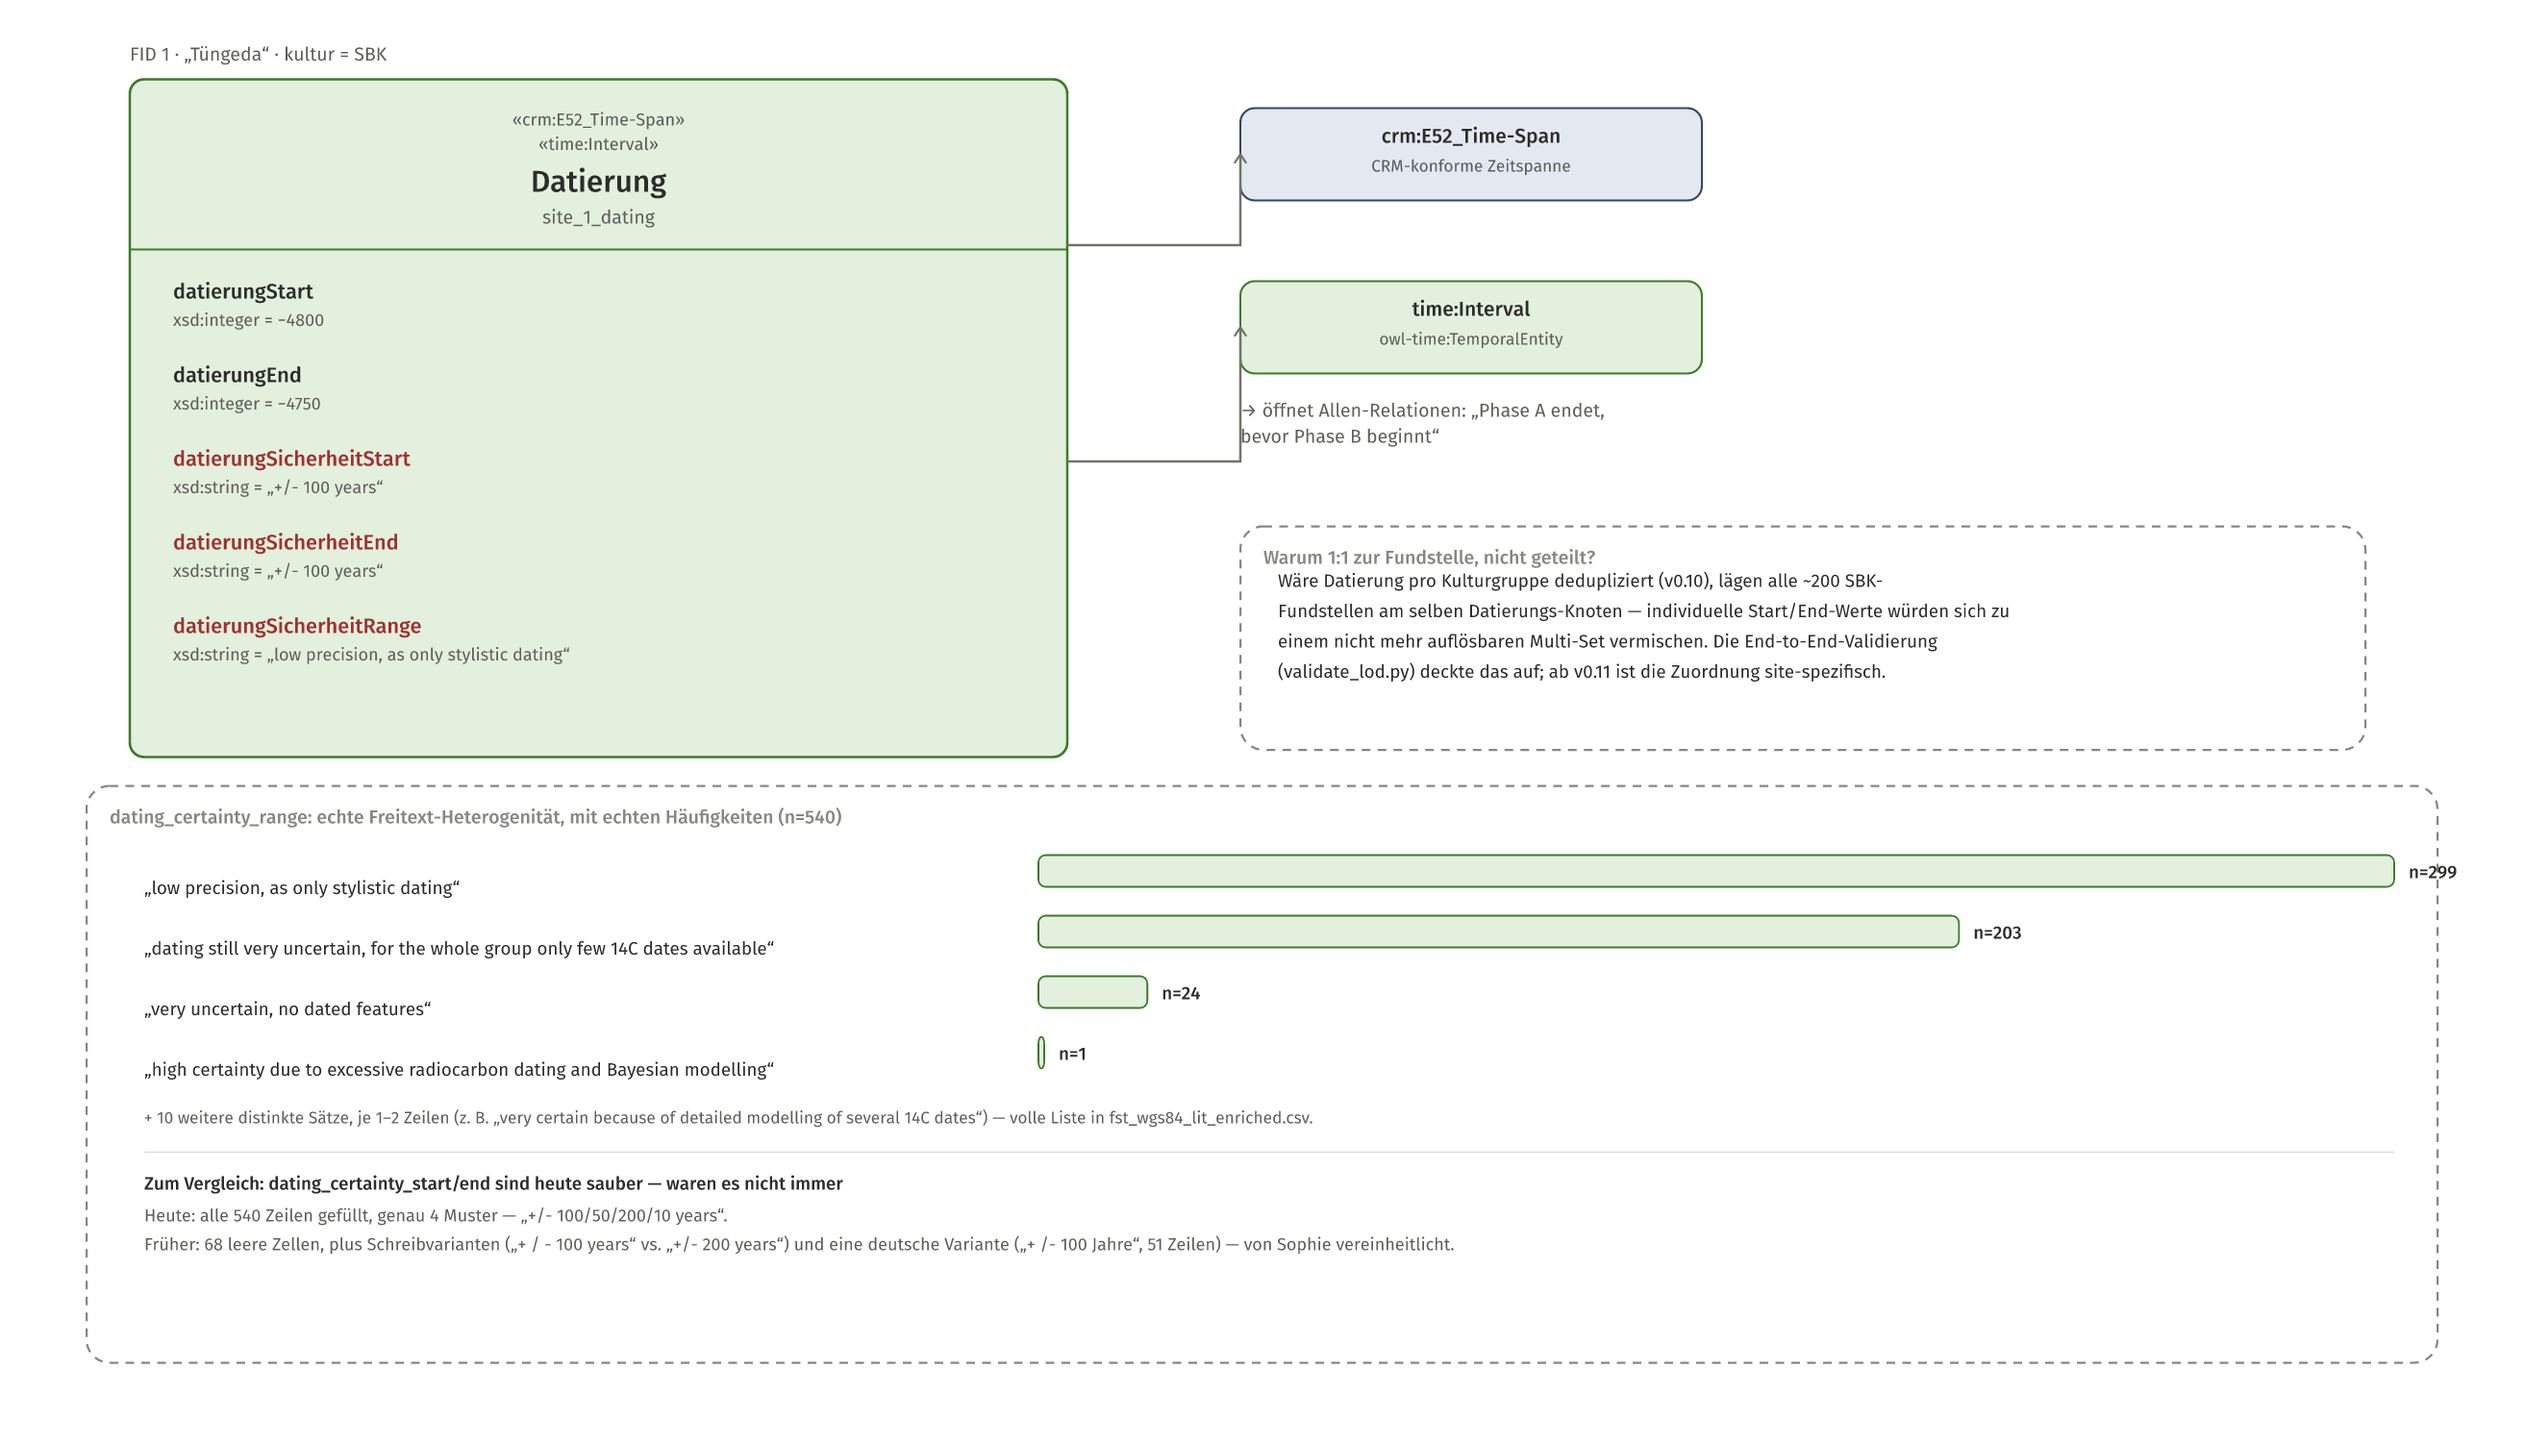
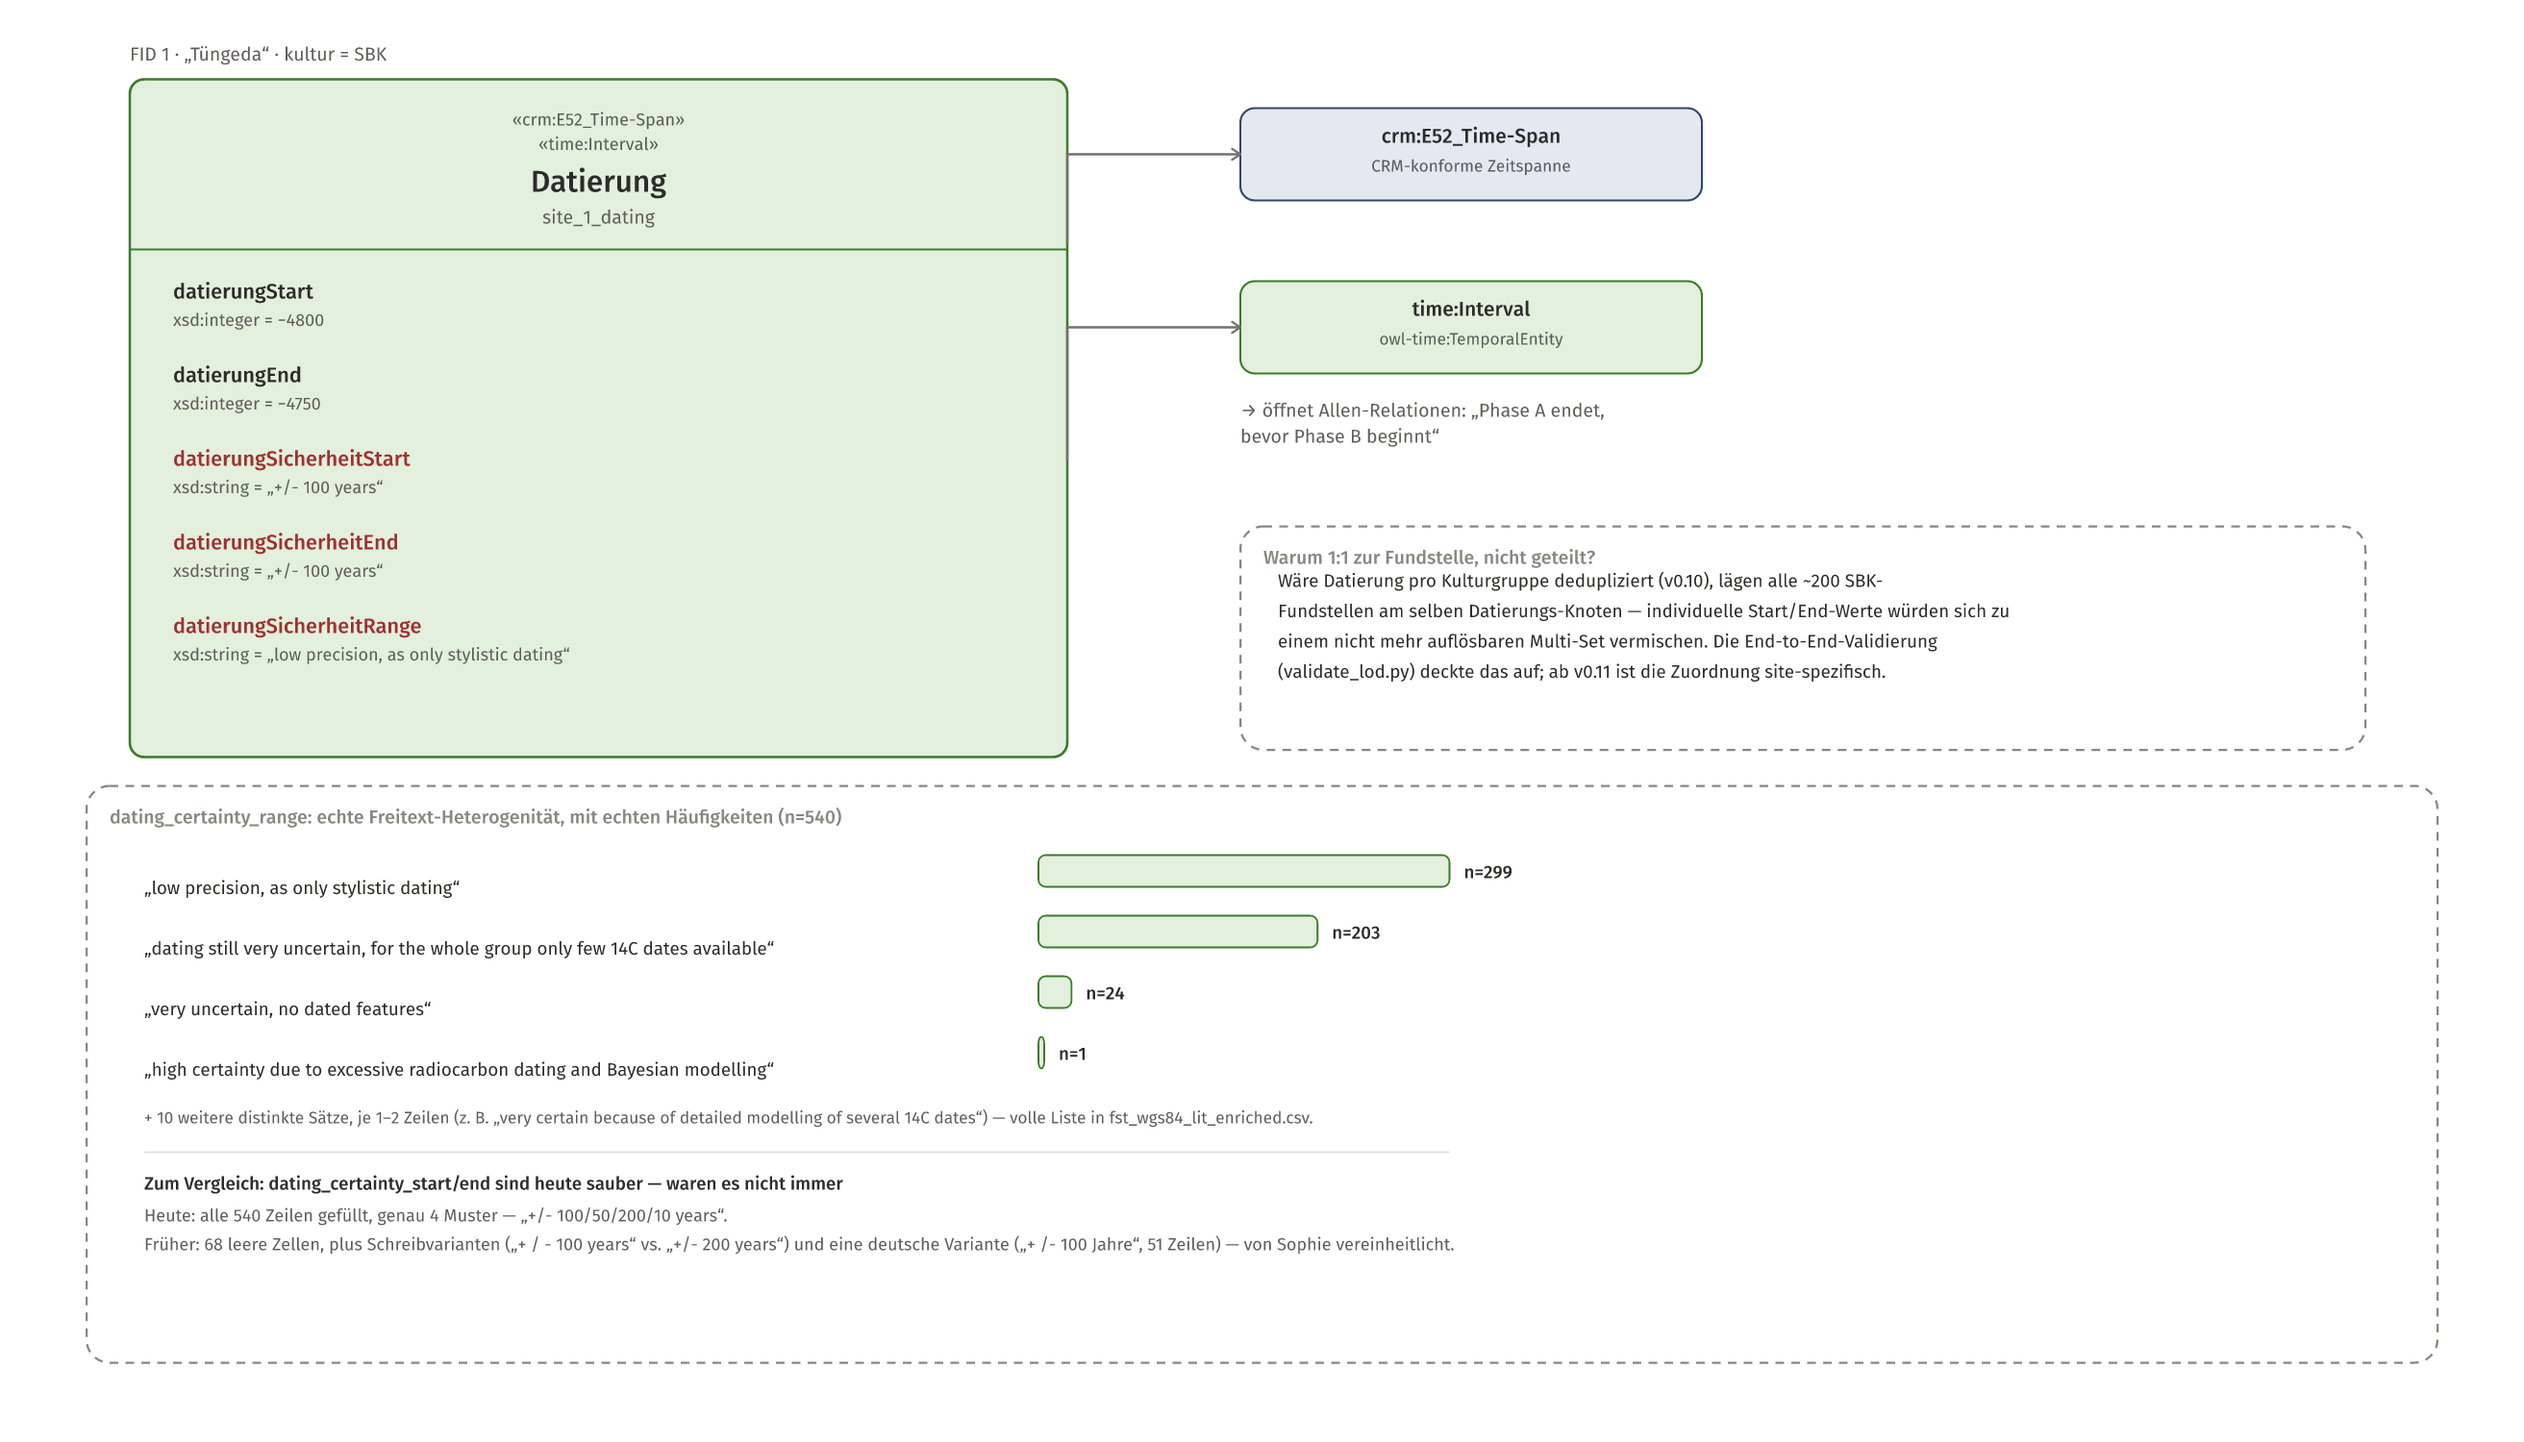
Fix bar-label overflow in figure 06
The dating_certainty_range bar chart's width was a fixed 1560px, never checked against how wide the longest count label ('n=299') actually renders -- it ran past the dashed container's right edge by about 22px. bar_w is now computed from the container's real edge minus the widest label's actual rendered width (vu.text_width), so this can't recur regardless of what the counts are.

Also re-confirms the horizontal-entry connector fix from an earlier patch, which a screenshot showed in its pre-fix state -- re-shipped for certainty, not a regression.

See PRIMER.md S40.

Changed region(s): [[0.4998, 0.5827, 0.9684, 0.6747], [0.4061, 0.6747, 0.4686, 0.7053]]

diff --git a/py/step_06_uncertainty_dating.py b/py/step_06_uncertainty_dating.py
@@ -32,6 +32,20 @@ Bilingual (revision) -- see step_00 docstring for the convention. FID 1
 string quoted below, are real CSV content and are never translated,
 paraphrased, or altered in either language.
 
+**Revision 2026-09-15g:** two issues Florian flagged from the same
+screenshot. (1) The two connectors into crm:E52_Time-Span/time:Interval
+already carry the ``bend="v"`` fix from S36 (horizontal entry, not
+vertical) -- re-confirmed here, since the screenshot showed the older
+vertical-entry behaviour, most likely from a not-yet-rebuilt or
+not-yet-repatched copy rather than a regression in this file. (2) The
+real bug: the widest bar (n=299) plus its count label could run past
+the dashed container's right edge -- ``bar_w`` was a fixed 1560px that
+was never checked against how wide "n=299" actually renders. Now
+computed from the container's real right edge minus the widest "n=NNN"
+label's actual rendered width (``vu.text_width``), so the longest bar
+can never push its label past the border, whatever the counts turn out
+to be.
+
 Writes: uncertainty-dating.de.svg/.png, uncertainty-dating.en.svg/.png
 Run standalone: ``python py/step_06_uncertainty_dating.py``
 """
@@ -118,11 +132,11 @@ def build(lang: str = "en") -> list[str]:
     parts.append(vu.svg_box(cx1, cy1, cw1, ch1, "crm:E52_Time-Span",
                              tt("CRM-konforme Zeitspanne", "CRM-conformant time span"),
                              fill=CRM["fill"], stroke=CRM["stroke"]))
-    parts.append(vu.svg_arrow_L(ux + uw, uy + 115, cx1, cy1 + ch1 / 2, bend="h"))
+    parts.append(vu.svg_arrow_L(ux + uw, uy + 115, cx1, cy1 + ch1 / 2, bend="v"))
 
     parts.append(vu.svg_box(cx1, cy2, cw1, ch1, "time:Interval", "owl-time:TemporalEntity",
                              fill=DATING["fill"], stroke=DATING["stroke"]))
-    parts.append(vu.svg_arrow_L(ux + uw, uy + 265, cx1, cy2 + ch1 / 2, bend="h"))
+    parts.append(vu.svg_arrow_L(ux + uw, uy + 265, cx1, cy2 + ch1 / 2, bend="v"))
     allen1 = tt("\u2192 \u00f6ffnet Allen-Relationen: \u201ePhase A endet,",
                 "\u2192 opens Allen relations: \u201ePhase A ends")
     allen2 = tt("bevor Phase B beginnt\u201c", "before Phase B begins\u201c")
@@ -159,9 +173,17 @@ def build(lang: str = "en") -> list[str]:
                                              "mit echten H\u00e4ufigkeiten (n=540)",
                                              "dating_certainty_range: real free-text heterogeneity, "
                                              "with real counts (n=540)")))
-    bar_x, bar_y0, bar_w = 100, by + 60, 1560
+    bar_x, bar_y0 = 100, by + 60
     label_w = 620
     max_val = RANGE_VALUES[0][1]
+    # right edge of the container, minus a margin, minus room for the
+    # widest "n=NNN" label -- so the longest bar (n=299) can never push
+    # its own count label past the dashed border (the overflow Florian
+    # flagged: bar_w was set once and never checked against the actual
+    # rendered width of "n=299").
+    widest_n_label = max(vu.text_width(f"n={c}", 12.5) for _, c in RANGE_VALUES)
+    container_right = 60 + 1630
+    bar_w = container_right - 20 - widest_n_label - 10 - bar_x - label_w
     ry = bar_y0
     for text, count in RANGE_VALUES:
         parts.append(f'<text x="{bar_x:.1f}" y="{ry + 15:.1f}" font-family="Fira Sans" font-size="12.5" '

diff --git a/PRIMER.md b/PRIMER.md
@@ -264,6 +264,7 @@ nicht nur aus Docstrings. Vollständige Umsetzung: siehe S32--S34.
 | S37 | Sichtbares "Herausragen" vor dem Knick ergänzt (00, 03) | `step_00_fundstelle_hub.py`, `step_03_application_ontology.py` | S36 | erledigt 2026-09-15 |
 | S38 | Label-Fehlplatzierung im Fundstelle-Fan-out behoben (03) | `step_03_application_ontology.py` | S37 | erledigt 2026-09-15 |
 | S39 | Rückwärtslaufende Linie zum wd-Badge in 05 (rechtes Panel) behoben | `step_05_uncertainty_markers.py` | S38 | erledigt 2026-09-15 |
+| S40 | Balken-Überlauf in 06 behoben, Linien-Fix aus S36 re-bestätigt | `step_06_uncertainty_dating.py` | S39 | erledigt 2026-09-15 |
 
 Alle Diagramm-Schritte sind voneinander unabhängig (jeder importiert nur
 `bb5kbc_visuals_utils`) und können einzeln per `--only NN` neu gebaut werden.
@@ -1155,22 +1156,62 @@ berechnet werden. Bei rein visueller PNG-Prüfung wäre das an dieser
 Stelle leicht zu übersehen gewesen; das Nachrechnen im rohen SVG-Pfad
 hat den Fehler eindeutig bestätigt.
 
+### S40 -- Balken-Überlauf in 06 behoben, Linien-Fix aus S36 re-bestätigt
+
+**Ziel:** Florian schickte einen Screenshot von 06-uncertainty-dating:
+"hier stimmt auch die linien-logik nicht und n=299 ragt über den kasten
+hinaus".
+
+**Befund, zwei getrennte Sachverhalte:**
+
+1. **Linien-Logik:** der Screenshot zeigte die beiden Pfeile zu
+   crm:E52_Time-Span/time:Interval mit senkrechtem statt waagerechtem
+   Eintritt -- genau das Muster, das S36 bereits für diese Datei behoben
+   hatte (`bend="v"`). Im aktuellen Code hier nachgeprüft: die Zeile
+   steht bereits auf `bend="v"`, der eigene Render zeigt sauberen
+   waagerechten Eintritt. Der Screenshot zeigte vermutlich einen nicht
+   neu gebauten oder nicht vollständig gepatchten Stand, keine Regression
+   in dieser Datei -- sicherheitshalber trotzdem erneut ausgeliefert,
+   um jeden Zweifel auszuräumen.
+2. **Balken-Überlauf (der echte, neue Fund):** `bar_w` war ein fest
+   codierter Wert (1560px), nie gegen die tatsächliche gerenderte Breite
+   von "n=299" (der längste Zahlen-Text neben dem längsten Balken)
+   geprüft. Nachgerechnet: Balkenende + Textanfang + Textbreite lag bei
+   rund x=1712, der gestrichelte Rahmen endet bei x=1690 -- der Text lief
+   also tatsächlich über den Rahmen hinaus.
+
+**Korrigiert:** `bar_w` wird jetzt aus dem tatsächlichen rechten
+Rahmenrand minus der echten gerenderten Breite des längsten "n=NNN"-
+Labels (`vu.text_width()`, nicht geschätzt) berechnet -- der längste
+Balken kann seinen Zahlen-Text dadurch nie mehr über den Rahmen hinaus
+schieben, unabhängig davon, welche Häufigkeiten die Daten irgendwann
+liefern.
+
+**Abnahme:** DE+EN neu gerendert, n=299-Balken samt Label liegt jetzt
+mit sichtbarem Rand innerhalb des Rahmens; beide Linien zu
+crm:E52_Time-Span/time:Interval zeigen sauberen waagerechten Eintritt.
+`python main.py` komplett, zweimal hintereinander byte-identisch,
+0 AST-Treffer.
+
 ## Teil D -- Offene Punkte
 
 - **AST-Scan nicht automatisiert.** Weiterhin von Hand geprüft statt
   automatisch (siehe S16/S27/S30).
-- **Konvergenzpunkte aus ungleich großen/geformten Quellen sind ein
-  wiederkehrendes Fehlermuster** (S39): mindestens einmal gefunden, wo
-  ein gemeinsamer Ziel-/Abbiegepunkt nur aus EINER der beiden Quellen
-  berechnet wurde statt aus beiden. Nicht systematisch in anderen
-  Diagrammen mit Konvergenz-Mustern (09, 11 nutzen dasselbe
-  marker=None-Muster) nachgeprüft, ob dort dieselbe Asymmetrie
-  vorliegt -- dort sind die jeweiligen Quellen aber gleich große Boxen,
-  das konkrete Risiko dürfte geringer sein, wurde aber nicht verifiziert.
-- **Label-Platzierung, Linienführungs-Stil, bend=h/v** (S36-S38) --
+- **Fest codierte Balkenbreiten sind ein wiederkehrendes Risiko**
+  (S40): mindestens eine Stelle gefunden, wo eine Breite als fixer Wert
+  gesetzt war statt gegen die tatsächliche Textbreite geprüft. Andere
+  balkenartige Elemente (17-stats-infographic hat ähnliche Bars) wurden
+  nicht auf dasselbe Muster durchsucht.
+- **Nach einem Patch immer prüfen, ob der Screenshot den Stand *nach*
+  dem letzten Patch zeigt** (S40 Punkt 1) -- ein bereits gefixtes Detail
+  erneut gemeldet zu bekommen ist harmlos, aber ein Hinweis, dass
+  Patch-Anwendung/Neu-Build zwischen den Runden nicht immer
+  nachvollziehbar ist. Keine Aktion nötig, nur als Beobachtung notiert.
+- **Konvergenzpunkte aus ungleich großen/geformten Quellen** (S39),
+  **Label-Platzierung, Linienführungs-Stil, bend=h/v** (S36-S38) --
   jeweils nur an gemeldeten Stellen gefixt, nicht flächendeckend.
 - **Datengrundlage: 11 vollständig geprüft (S34), 12 und 16 nur
   stichprobenartig.**
 
-Wenn ein neuer Punkt ansteht: nach S39 einsortieren (S40, S41, …), hier
+Wenn ein neuer Punkt ansteht: nach S40 einsortieren (S41, S42, …), hier
 eintragen, nach Erledigung wieder streichen und in Teil B übernehmen.
